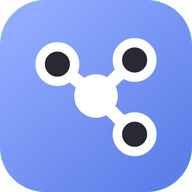
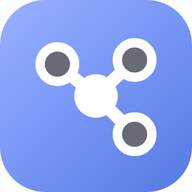
[minor] 优化品牌图标并加入主页标题

Changed region(s): [[0.625, 0.625, 0.7812, 0.7812], [0.2188, 0.25, 0.375, 0.4062], [0.625, 0.2188, 0.7812, 0.4062]]

diff --git a/src/view/leadingPage.js b/src/view/leadingPage.js
@@ -32,7 +32,10 @@ export function renderLeadingPage({ db, projects, currentProjectId }) {
     <div class="leading-page">
       <header class="leading-topbar">
         <div class="leading-brand">
-          <h1>Tracegraph</h1>
+          <div class="leading-brand-main">
+            <img src="/favicon.svg" alt="" aria-hidden="true" />
+            <h1>Tracegraph</h1>
+          </div>
           <span>${projects.length} 个项目</span>
         </div>
         <div class="leading-account-actions"><button class="btn" data-export-all>${ICON.download}<span>导出全部数据</span></button><div data-leading-theme></div><div data-account></div></div>

diff --git a/src/styles/app.css b/src/styles/app.css
@@ -920,7 +920,9 @@ body {
 .leading-page.drag-over { box-shadow: inset 0 0 0 2px var(--accent, #ff9e64); background: color-mix(in srgb, var(--accent, #ff9e64) 7%, transparent); }
 .project-dialog-backdrop.drag-over .project-dialog { box-shadow: 0 0 0 2px var(--accent, #ff9e64), var(--shadow-modal); }
 .leading-topbar { display: flex; align-items: center; justify-content: space-between; gap: 16px; padding: 4px 2px 18px; border-bottom: 1px solid var(--line-soft); }
-.leading-brand { display: flex; align-items: baseline; gap: 10px; }
+.leading-brand { display: flex; align-items: center; gap: 10px; }
+.leading-brand-main { display: flex; align-items: center; gap: 9px; }
+.leading-brand-main img { width: 30px; height: 30px; display: block; border-radius: 7px; }
 .leading-topbar h1 { margin: 0; font-size: 21px; font-weight: 650; letter-spacing: -.02em; }
 .leading-topbar span { color: var(--text-dim); font-size: 12px; }
 .leading-panel { margin-top: 20px; }